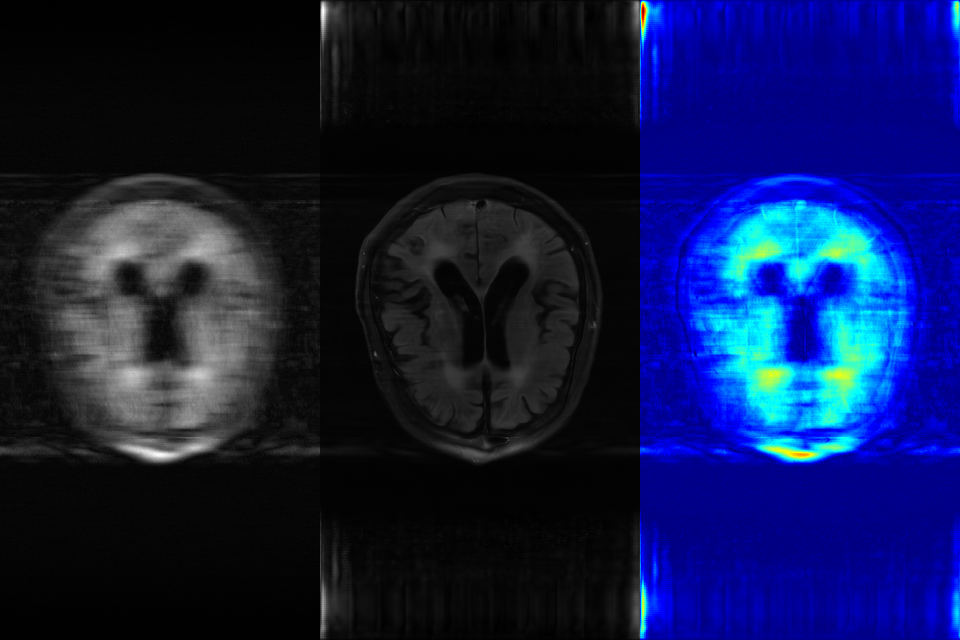
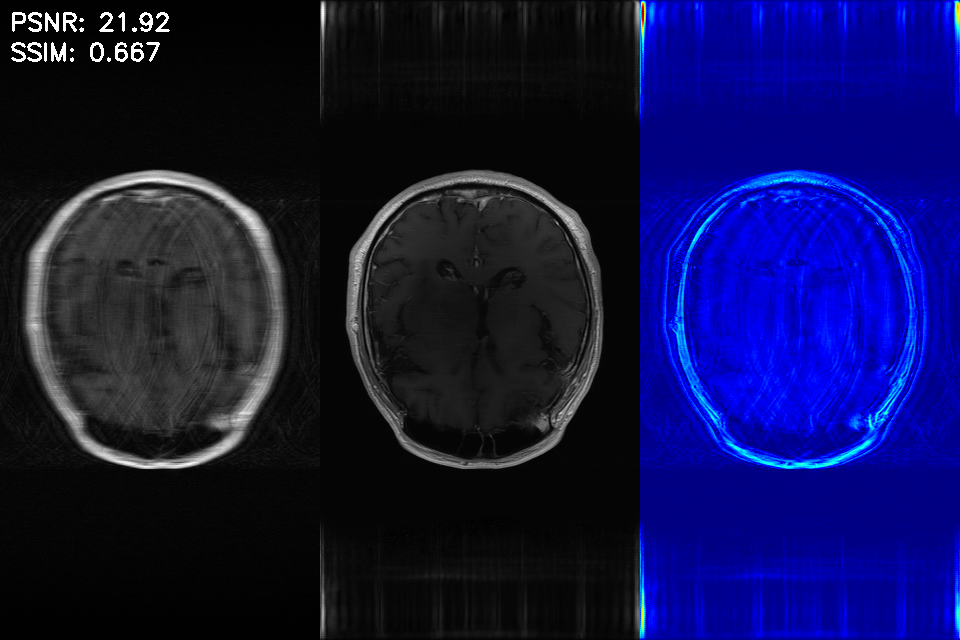
added model with git LFS

diff --git a/app.py b/app.py
@@ -14,17 +14,14 @@ async def predict(file: UploadFile = File(...)):
 
     temp_file = "temp.h5"
 
+    # Save uploaded file
     with open(temp_file, "wb") as buffer:
         shutil.copyfileobj(file.file, buffer)
 
-    recon, zf, change_map = run_inference(model, device, temp_file)
+    # Run model inference
+    recon, zf, heatmap, psnr, ssim = run_inference(model, device, temp_file)
 
-    # Convert tensors to numpy
-    recon = recon.numpy()
-    zf = zf.numpy()
-    change_map = change_map.numpy()
-
-    # Normalize images to 0-255
+    # Normalize images
     def normalize(img):
         img = img - img.min()
         img = img / (img.max() + 1e-8)
@@ -32,7 +29,7 @@ async def predict(file: UploadFile = File(...)):
 
     recon_img = normalize(recon)
     zf_img = normalize(zf)
-    heatmap_img = normalize(change_map)
+    heatmap_img = normalize(heatmap)
 
     # Apply heatmap color
     heatmap_color = cv2.applyColorMap(heatmap_img, cv2.COLORMAP_JET)
@@ -41,10 +38,15 @@ async def predict(file: UploadFile = File(...)):
     recon_img = cv2.cvtColor(recon_img, cv2.COLOR_GRAY2BGR)
     zf_img = cv2.cvtColor(zf_img, cv2.COLOR_GRAY2BGR)
 
-    # Stack horizontally
+    # Combine images
     combined = np.hstack((zf_img, recon_img, heatmap_color))
 
     output_path = "output.png"
+    cv2.putText(combined, f"PSNR: {psnr:.2f}", (10,30),cv2.FONT_HERSHEY_SIMPLEX, 0.8, (255,255,255), 2)
+    cv2.putText(combined, f"SSIM: {ssim:.3f}", (10,60),cv2.FONT_HERSHEY_SIMPLEX, 0.8, (255,255,255), 2)
     cv2.imwrite(output_path, combined)
-
-    return FileResponse(output_path, media_type="image/png")
+    cv2.putText(zf_img, "Zero Filled", (10,20),cv2.FONT_HERSHEY_SIMPLEX, 0.6, (255,255,255), 2)
+    cv2.putText(recon_img, "Reconstructed", (10,20),cv2.FONT_HERSHEY_SIMPLEX, 0.6, (255,255,255), 2)
+    cv2.putText(heatmap_color, "Heatmap", (10,20),cv2.FONT_HERSHEY_SIMPLEX, 0.6, (255,255,255), 2)
+    
+    return FileResponse("output.png", media_type="image/png")

diff --git a/utils.py b/utils.py
@@ -1,8 +1,11 @@
 import torch
 import h5py
 import fastmri
+import numpy as np
+from skimage.metrics import peak_signal_noise_ratio, structural_similarity
 
 def run_inference(model, device, file_path):
+
     with h5py.File(file_path, "r") as f:
         kspace_np = f["kspace"][0]
         mask_np = f["mask"][:]
@@ -20,11 +23,24 @@ def run_inference(model, device, file_path):
 
     recon = recon.squeeze().cpu()
 
+    # Zero-filled reconstruction
     zf = fastmri.ifft2c(kspace)
     zf = fastmri.complex_abs(zf)
     zf = zf.sum(dim=1).squeeze().cpu()
 
-    change_map = torch.abs(recon - zf)
-    change_map = change_map / change_map.max()
+    recon_np = recon.numpy()
+    zf_np = zf.numpy()
 
-    return recon, zf, change_map
+    
+    recon_norm = (recon_np - recon_np.min()) / (recon_np.max() - recon_np.min() + 1e-8)
+    zf_norm = (zf_np - zf_np.min()) / (zf_np.max() - zf_np.min() + 1e-8)
+
+    
+    psnr = float(peak_signal_noise_ratio(zf_norm, recon_norm, data_range=1.0))
+    ssim = float(structural_similarity(zf_norm, recon_norm, data_range=1.0))
+
+
+    change_map = np.abs(recon_norm - zf_norm)
+    change_map = change_map / (change_map.max() + 1e-8)
+
+    return recon_np, zf_np, change_map, psnr, ssim

diff --git a/model.py b/model.py
@@ -14,7 +14,7 @@ def load_model():
     )
 
     checkpoint = torch.load(
-        "brain_leaderboard_state_dict.pt",
+        "trained_model.pt",
         map_location=device
     )
 
@@ -22,11 +22,11 @@ def load_model():
     model.to(device)
     model.eval()
 
-    # 🔥 If GPU available → use half precision
+    # If GPU available → use half precision
     if device.type == "cuda":
         model = model.half()
 
-    # 🔥 Disable gradient tracking globally
+    # Disable gradient tracking globally
     for param in model.parameters():
         param.requires_grad = False
 
